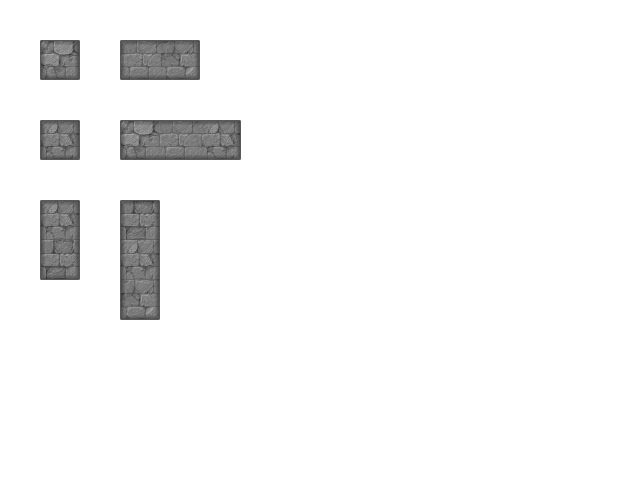
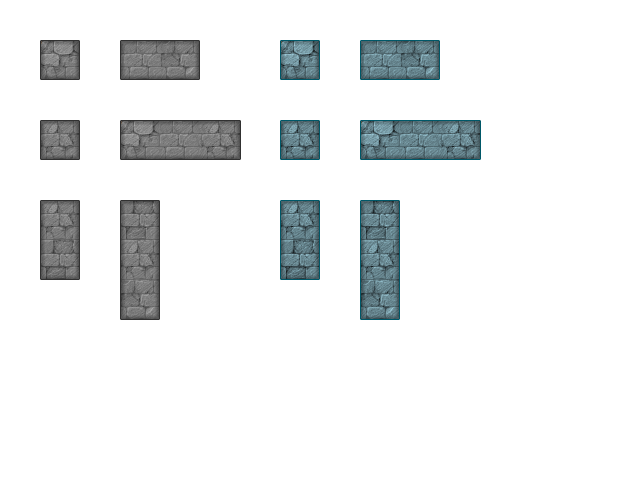
Updated styling and html structure; updated sprite image with hover sprites

diff --git a/src/index.html b/src/index.html
@@ -4,29 +4,38 @@
     <meta charset="UTF-8">
     <title>rockmover</title>
     <link href="https://fonts.googleapis.com/css?family=Heebo" rel="stylesheet" type="text/css">
+    <link href="https://cdnjs.cloudflare.com/ajax/libs/normalize/4.2.0/normalize.min.css" rel="stylesheet" type="text/css">
     <link href="css/main.css" rel="stylesheet" type="text/css">
 
 </head>
 <body>
     <div class="canvas-wrapper">
+
+        <div class="canvas__header">
+            <h4>Rockmover</h4>
+
+            <div id="score" class="message">
+                <p id="score__text">
+                    Final score: <span id="score__number"></span>
+                </p>
+            </div>
+
+            <div id="buttons" class="message">
+                <!-- <p>
+                    Are you done?
+                </p> -->
+                <button id="new">
+                    New Game
+                </button>
+                <button id="end">Finish Game</button>
+            </div>
+
+
+        </div>
         <canvas id="canvas">
 
         </canvas>
 
-        <div id="score" class="message">
-            <p id="score__text">
-                Final score: <span id="score__number"></span>
-            </p>
-            <button id="new-game">
-                New Game
-            </button>
-        </div>
-        <div id="end-game" class="message">
-            <p>
-                Are you done?
-            </p>
-            <button id="end">Finish Game</button>
-        </div>    
     </div>
 
 

diff --git a/src/css/main.css b/src/css/main.css
@@ -3,24 +3,72 @@ body {
     font-size: 16px;
     position: relative;
     margin: 0 auto;
+    background: #ddd;
 }
 
+
 .canvas-wrapper {
-    margin: 0 auto;
+    margin: 5rem auto;
     display: block;
     width: 900px;
     position: relative;
 }
 
-.message {
+canvas {
+    background: #f9f9f9;
+    border: 2px solid #aaa;
+}
+
+.canvas__header {
+    background: #444;;
+    color: white;
+    width: 902px;
+    border: 1px solid #444;
+    border-bottom: 1px solid #444;
+    border-top-left-radius: 4px;
+    border-top-right-radius: 4px;
+    display: flex;
+}
+
+.canvas__header h4 {
+    margin: 10px 50px 10px 10px;
+    display: inline-block;
+}
+
+.score__text,
+.canvas__header .message,
+.canvas__header .message p {
+
+}
+.canvas__header .message p {
+    margin: 0;
+    display: inline-block;
+}
+
+.canvas__header button {
+    background: #c00;
+    color: white;
+    border: none;
+    outline: 0;
+    padding: 3px 8px;
+    border-radius: 4px;
+}
+
+.canvas__header .message {
+    text-align: right;
+    padding: 10px;
+    width: 33%;
+}
+
+/*.message {
     position: absolute;
     top: 50%;
     transform: translateY(-50%);
+        right: -250px;
     width: 150px;
     padding: 1rem;
-    right: -250px;
     background: rgba(255, 255, 255, 0.6);
     border-radius: 3px;
     border: 1px solid #ddd;
     text-align: center;
-}
+}*/
